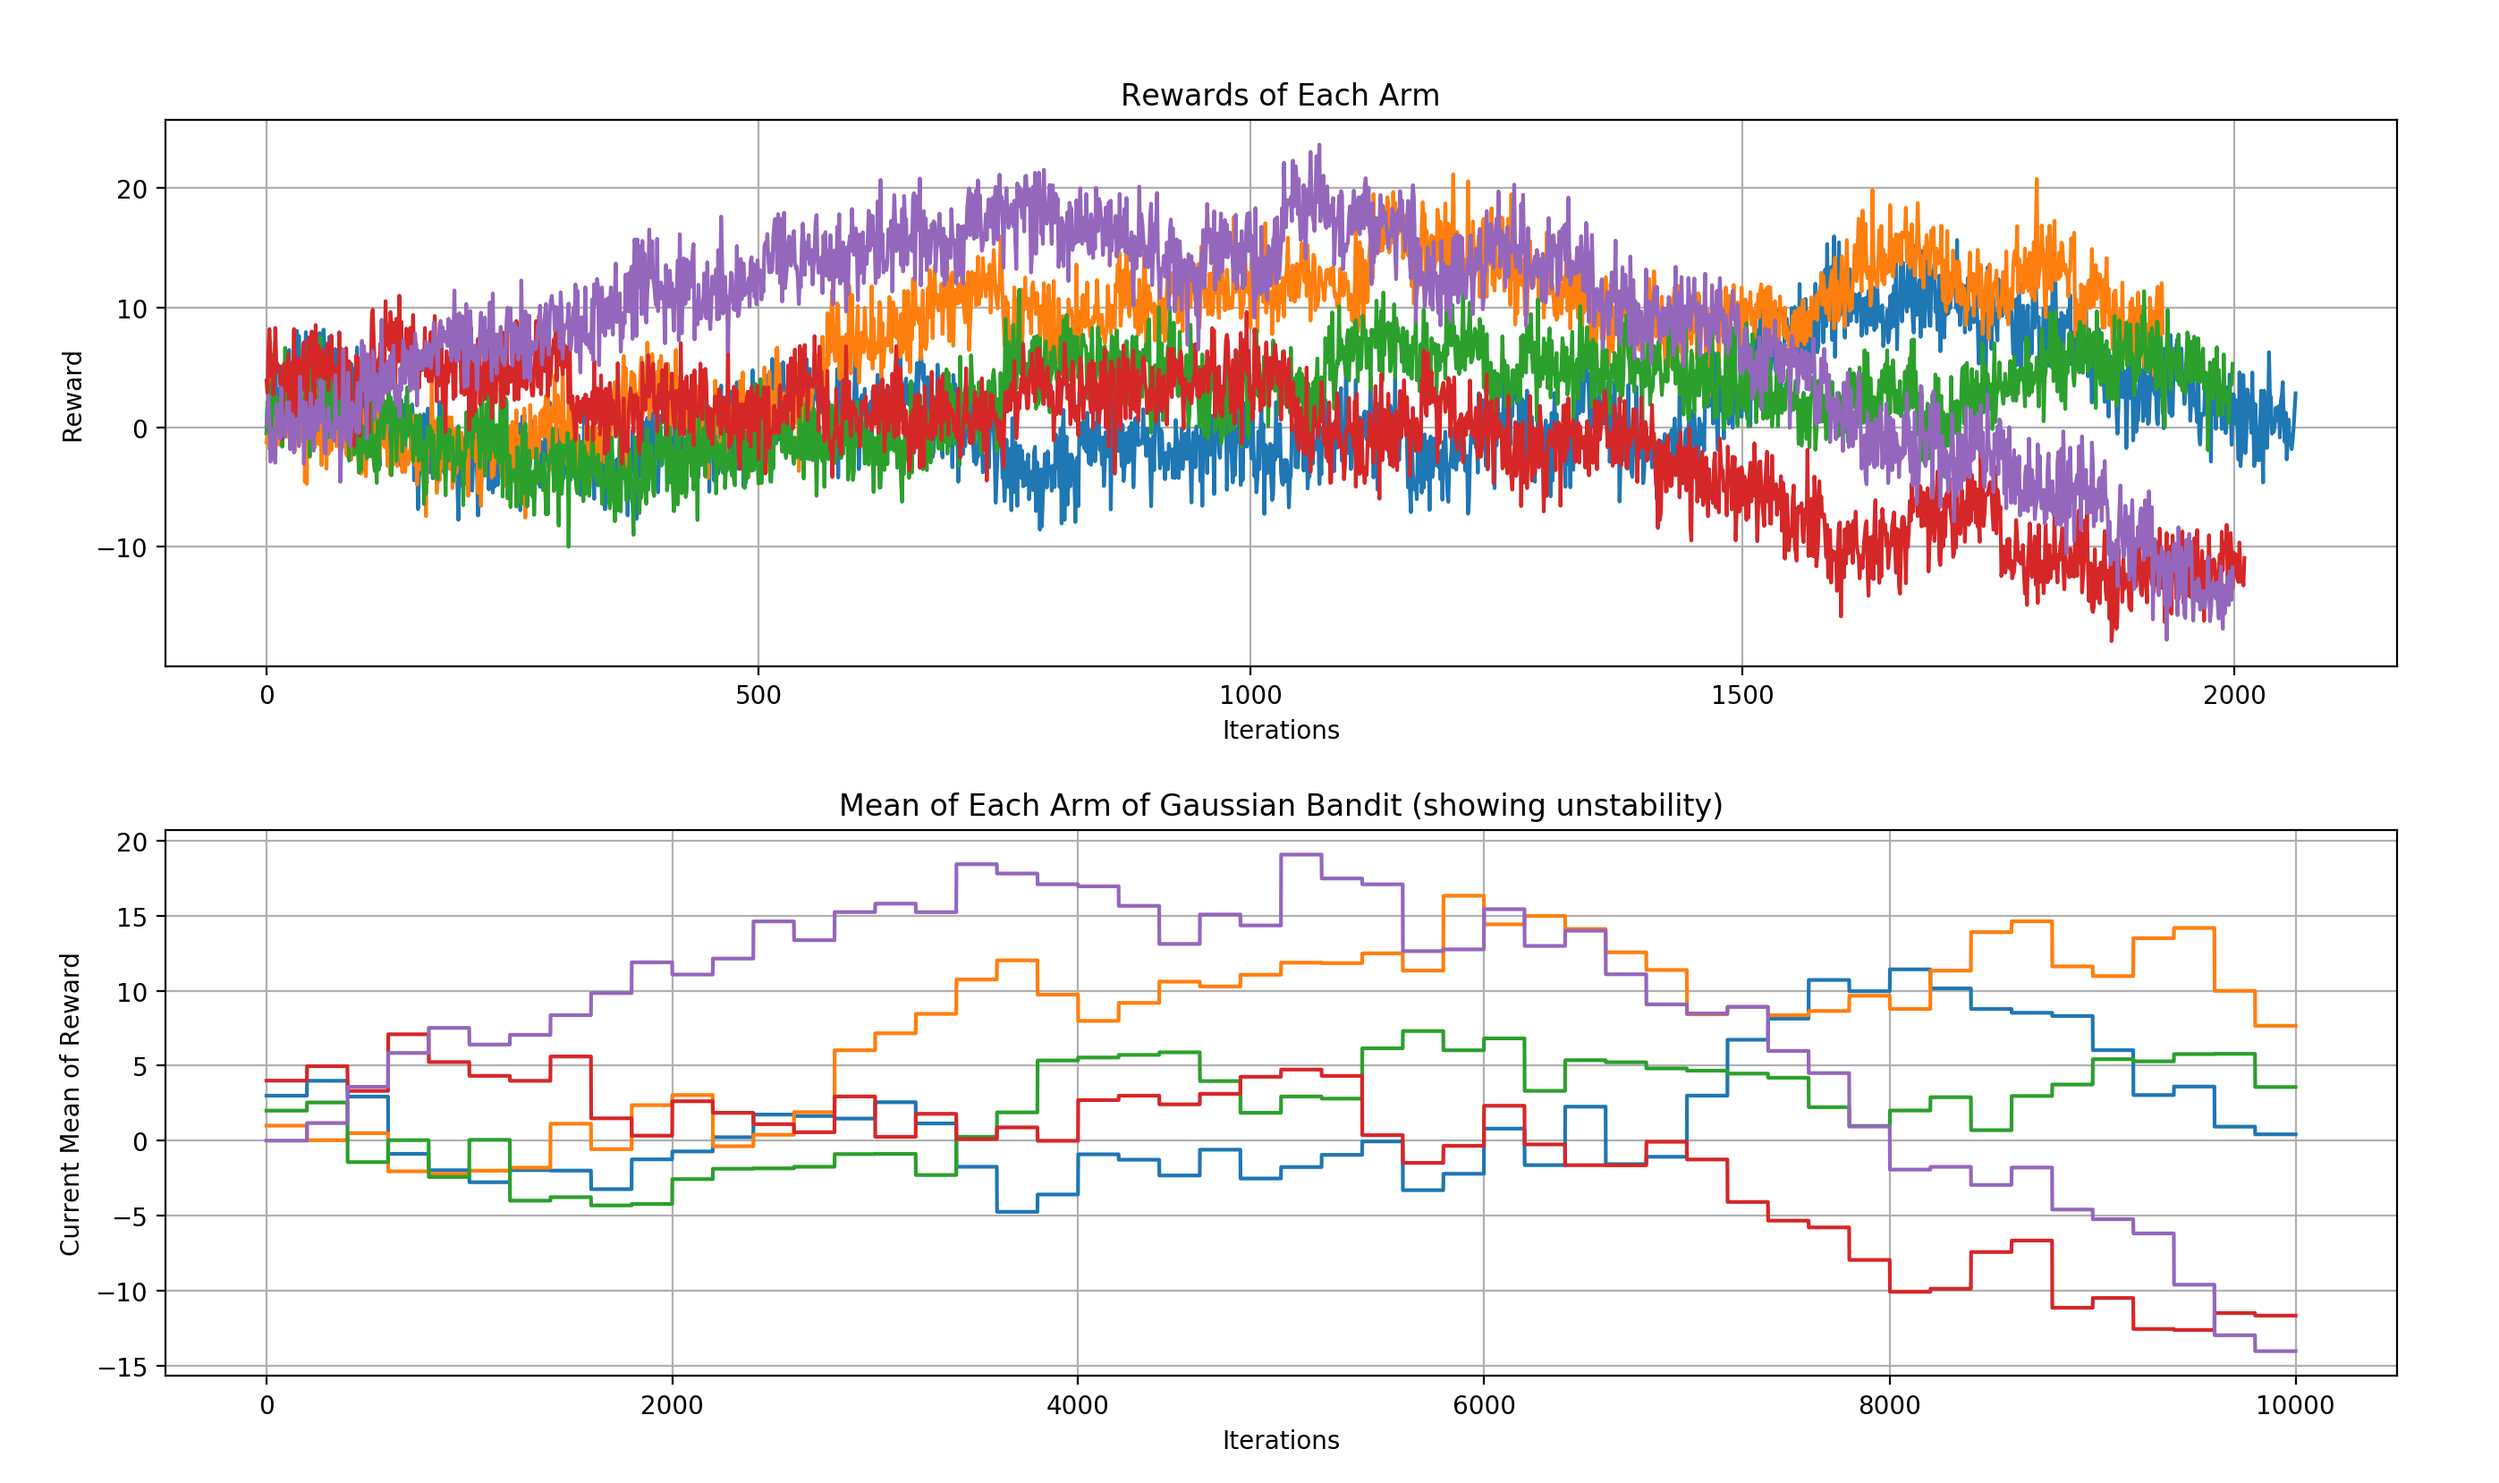
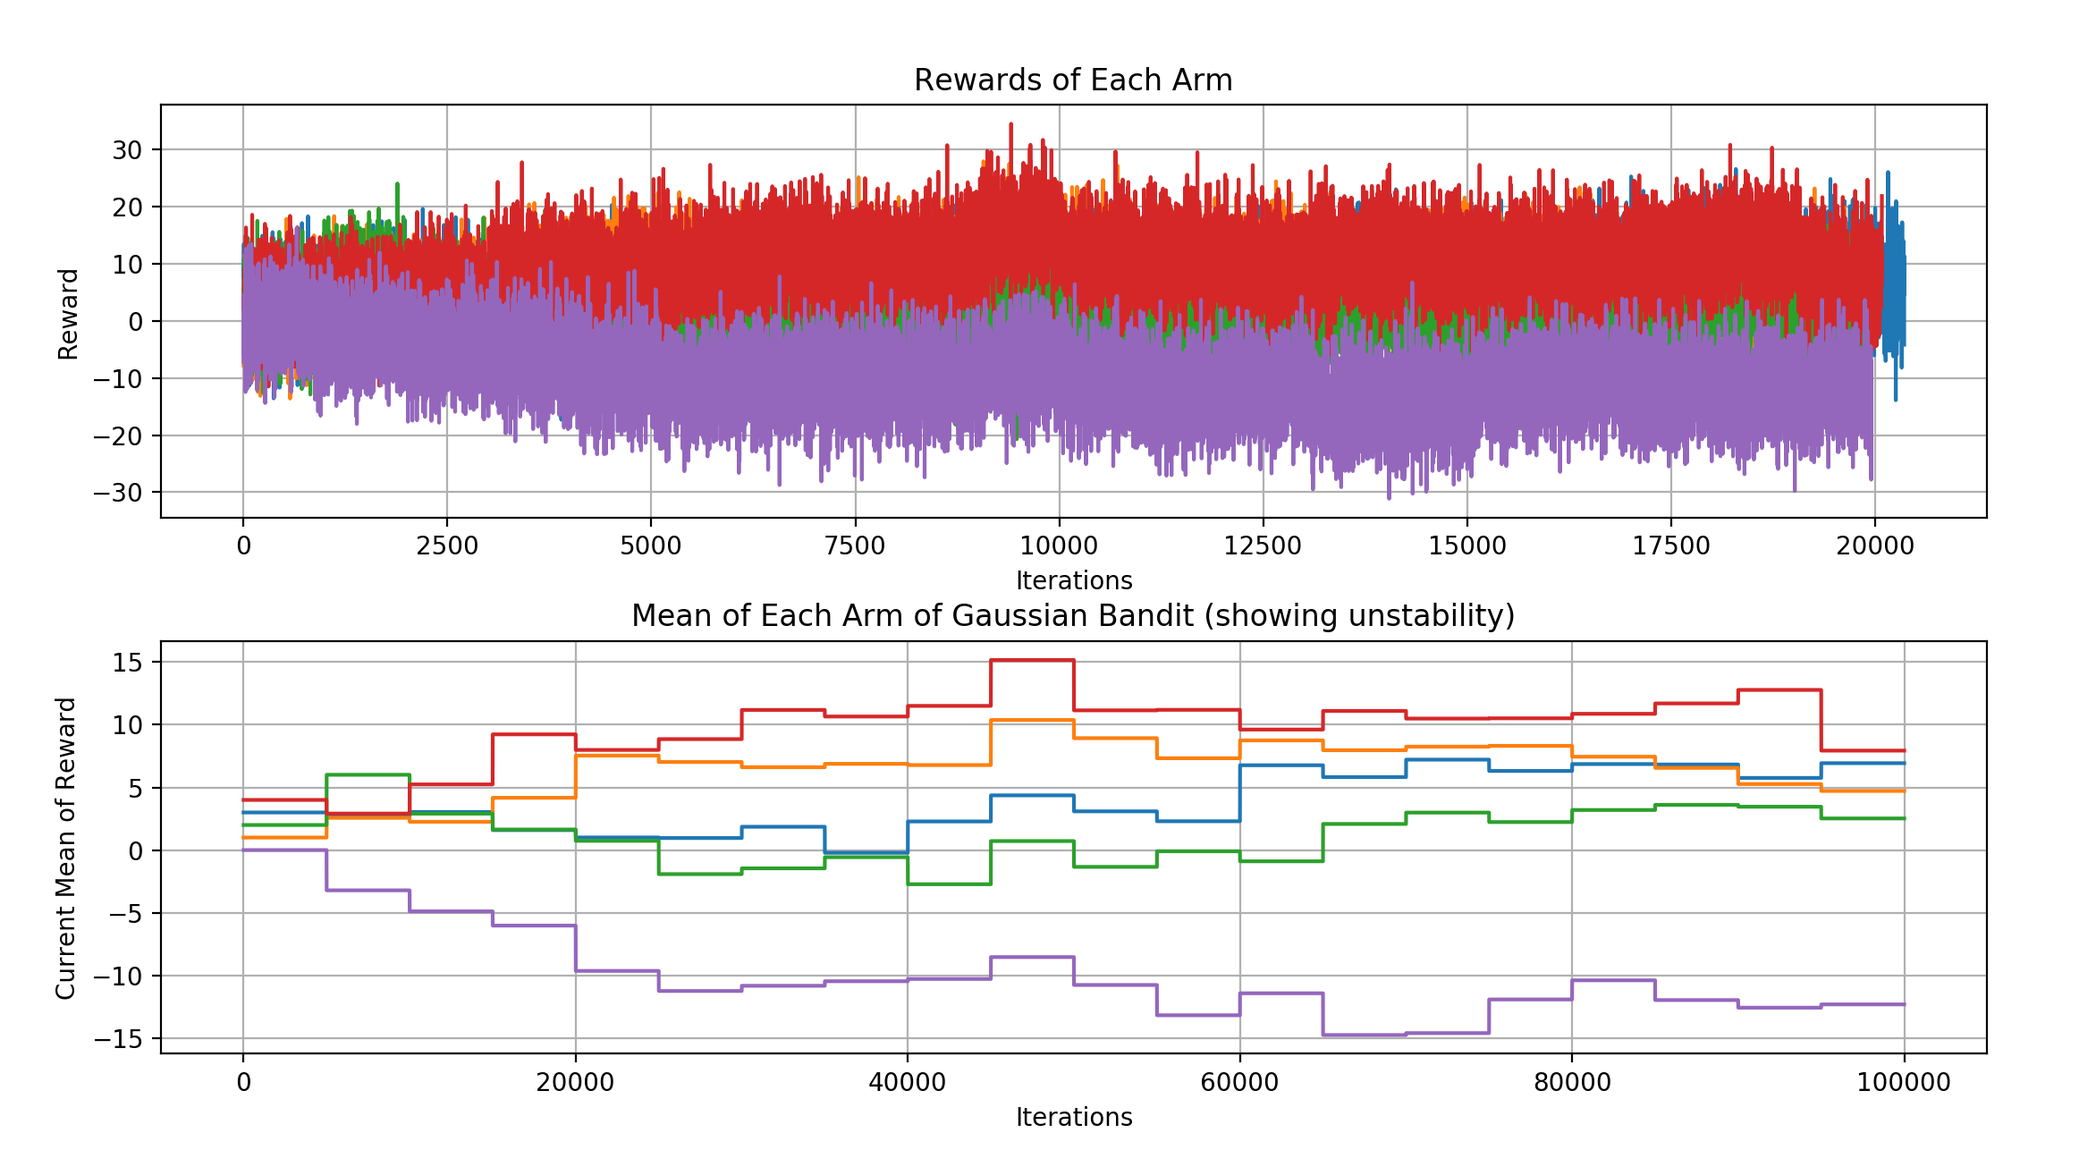
:bug: bugfix for unstable MAB

Changed region(s): [[0.0, 0.0622, 0.9654, 0.9642], [0.4672, 0.9642, 0.5294, 0.9953]]

diff --git a/multi_armed_bandit/experiments.py b/multi_armed_bandit/experiments.py
@@ -25,7 +25,7 @@ def test_epsilon_greedy(toy_bandit, n_epoch=2000, warm_up=False, epsilon=0.1):
     ax1.set_title('Average reward vs. Iter')
     ax1.set_xlabel('Iterations')
     ax1.set_ylabel('Average reward')
-    
+
     for each_arm in range(len(q_list)):
         ax2.plot(act_selection_aver[each_arm])
     ax2.grid()
@@ -37,7 +37,7 @@ def test_epsilon_greedy(toy_bandit, n_epoch=2000, warm_up=False, epsilon=0.1):
 
     fig = plt.figure(figsize=(5, 5))
     ax1 = fig.add_subplot(111)
-    
+
     ax1.bar(x=[i - 0.2 for i in range(len(q_list))], \
         height=q_list, width=0.4, color='r', label="Q value for each arm")
     ax1.bar(x=[i + 0.2 for i in range(len(q_list))], \
@@ -76,6 +76,7 @@ def test_ucb_select(toy_bandit, n_epoch=200, warm_up=False, action_mode='ucb', c
 
 def test_unstable_bandit(unstable_bandit, n_epoch=2000, warm_up=False, epsilon=0.1, alpha=[0, 0.1]):
     aver_reward_list_all = []
+    alpha = [0] + alpha
     for idx, each_alpha in enumerate(alpha):
         unstable_bandit = UnstableGaussianBandit(num_arms=unstable_bandit.num_arms, \
             sig=unstable_bandit.sigma, \
@@ -89,6 +90,8 @@ def test_unstable_bandit(unstable_bandit, n_epoch=2000, warm_up=False, epsilon=0
                         = bandit_algorithm(toy_bandit=unstable_bandit, \
                             n_epoch=n_epoch, warm_up=warm_up, epsilon=epsilon, alpha=each_alpha)
         aver_reward_list_all.append(aver_reward_list)
+    
+    alpha = alpha[1:]
     fig = plt.figure(figsize=(10,10))
     ax1 = fig.add_subplot(111)
     fig.subplots_adjust(wspace=None, hspace=0.3)
@@ -103,12 +106,12 @@ def test_unstable_bandit(unstable_bandit, n_epoch=2000, warm_up=False, epsilon=0
 
 
 if __name__ == "__main__":
-    
+
     NUM_ARMS = 5
-    SIG = 2.0
+    SIG = 5.0
     AMP = 2.0
-    INTERVAL = 200
-    EPOCH = 10000
+    INTERVAL = 5000
+    EPOCH = 100000
     SEED = 2020
 
     toy_bandit = GaussianBandit(num_arms=NUM_ARMS, sig=SIG, seed=SEED)
